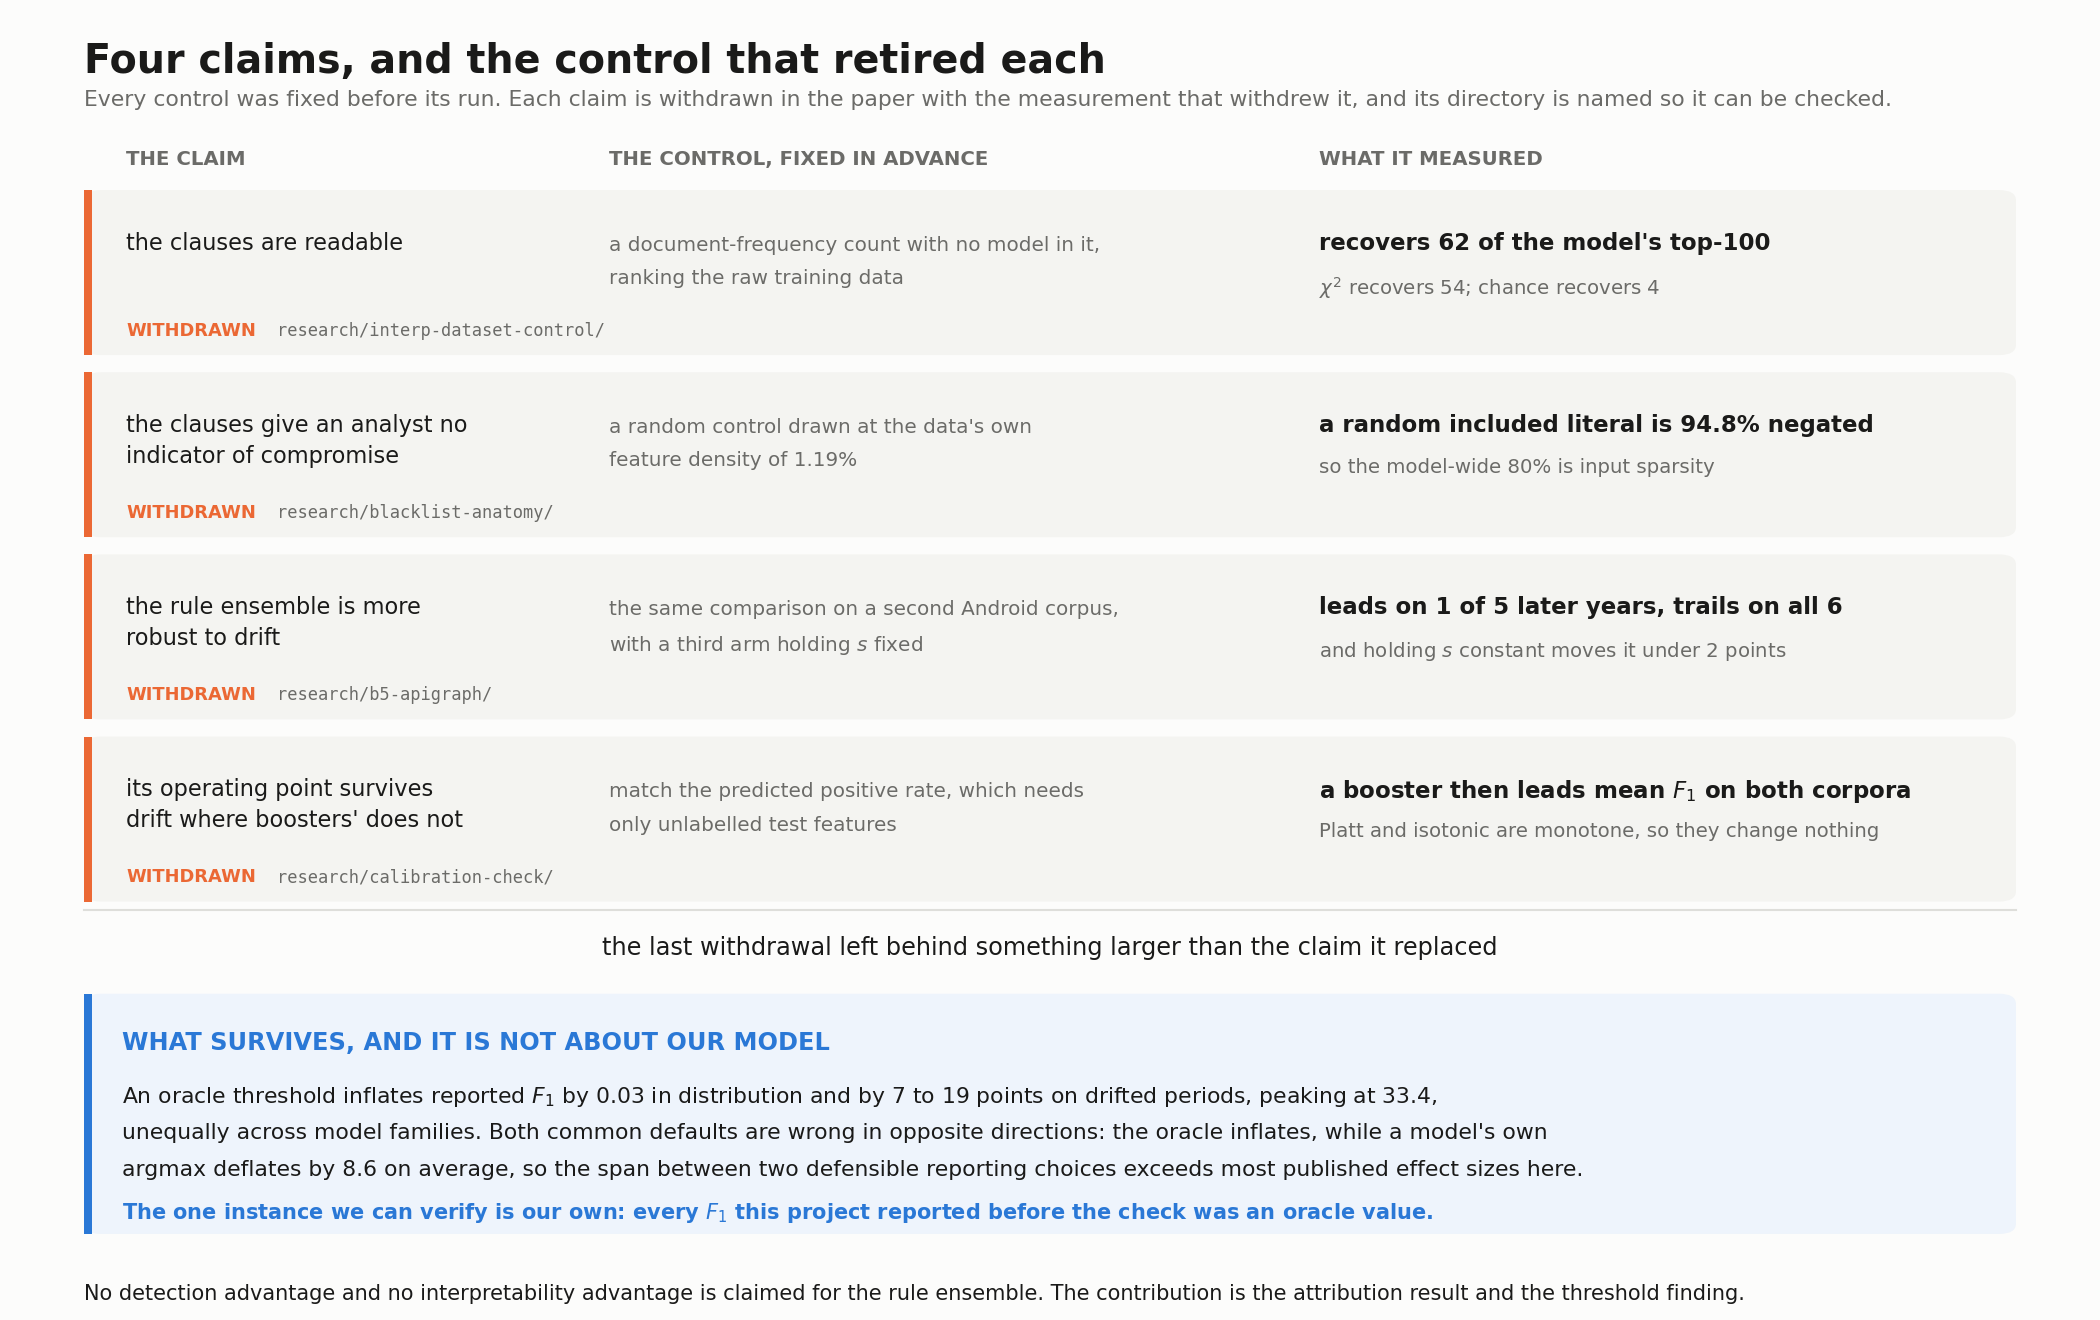
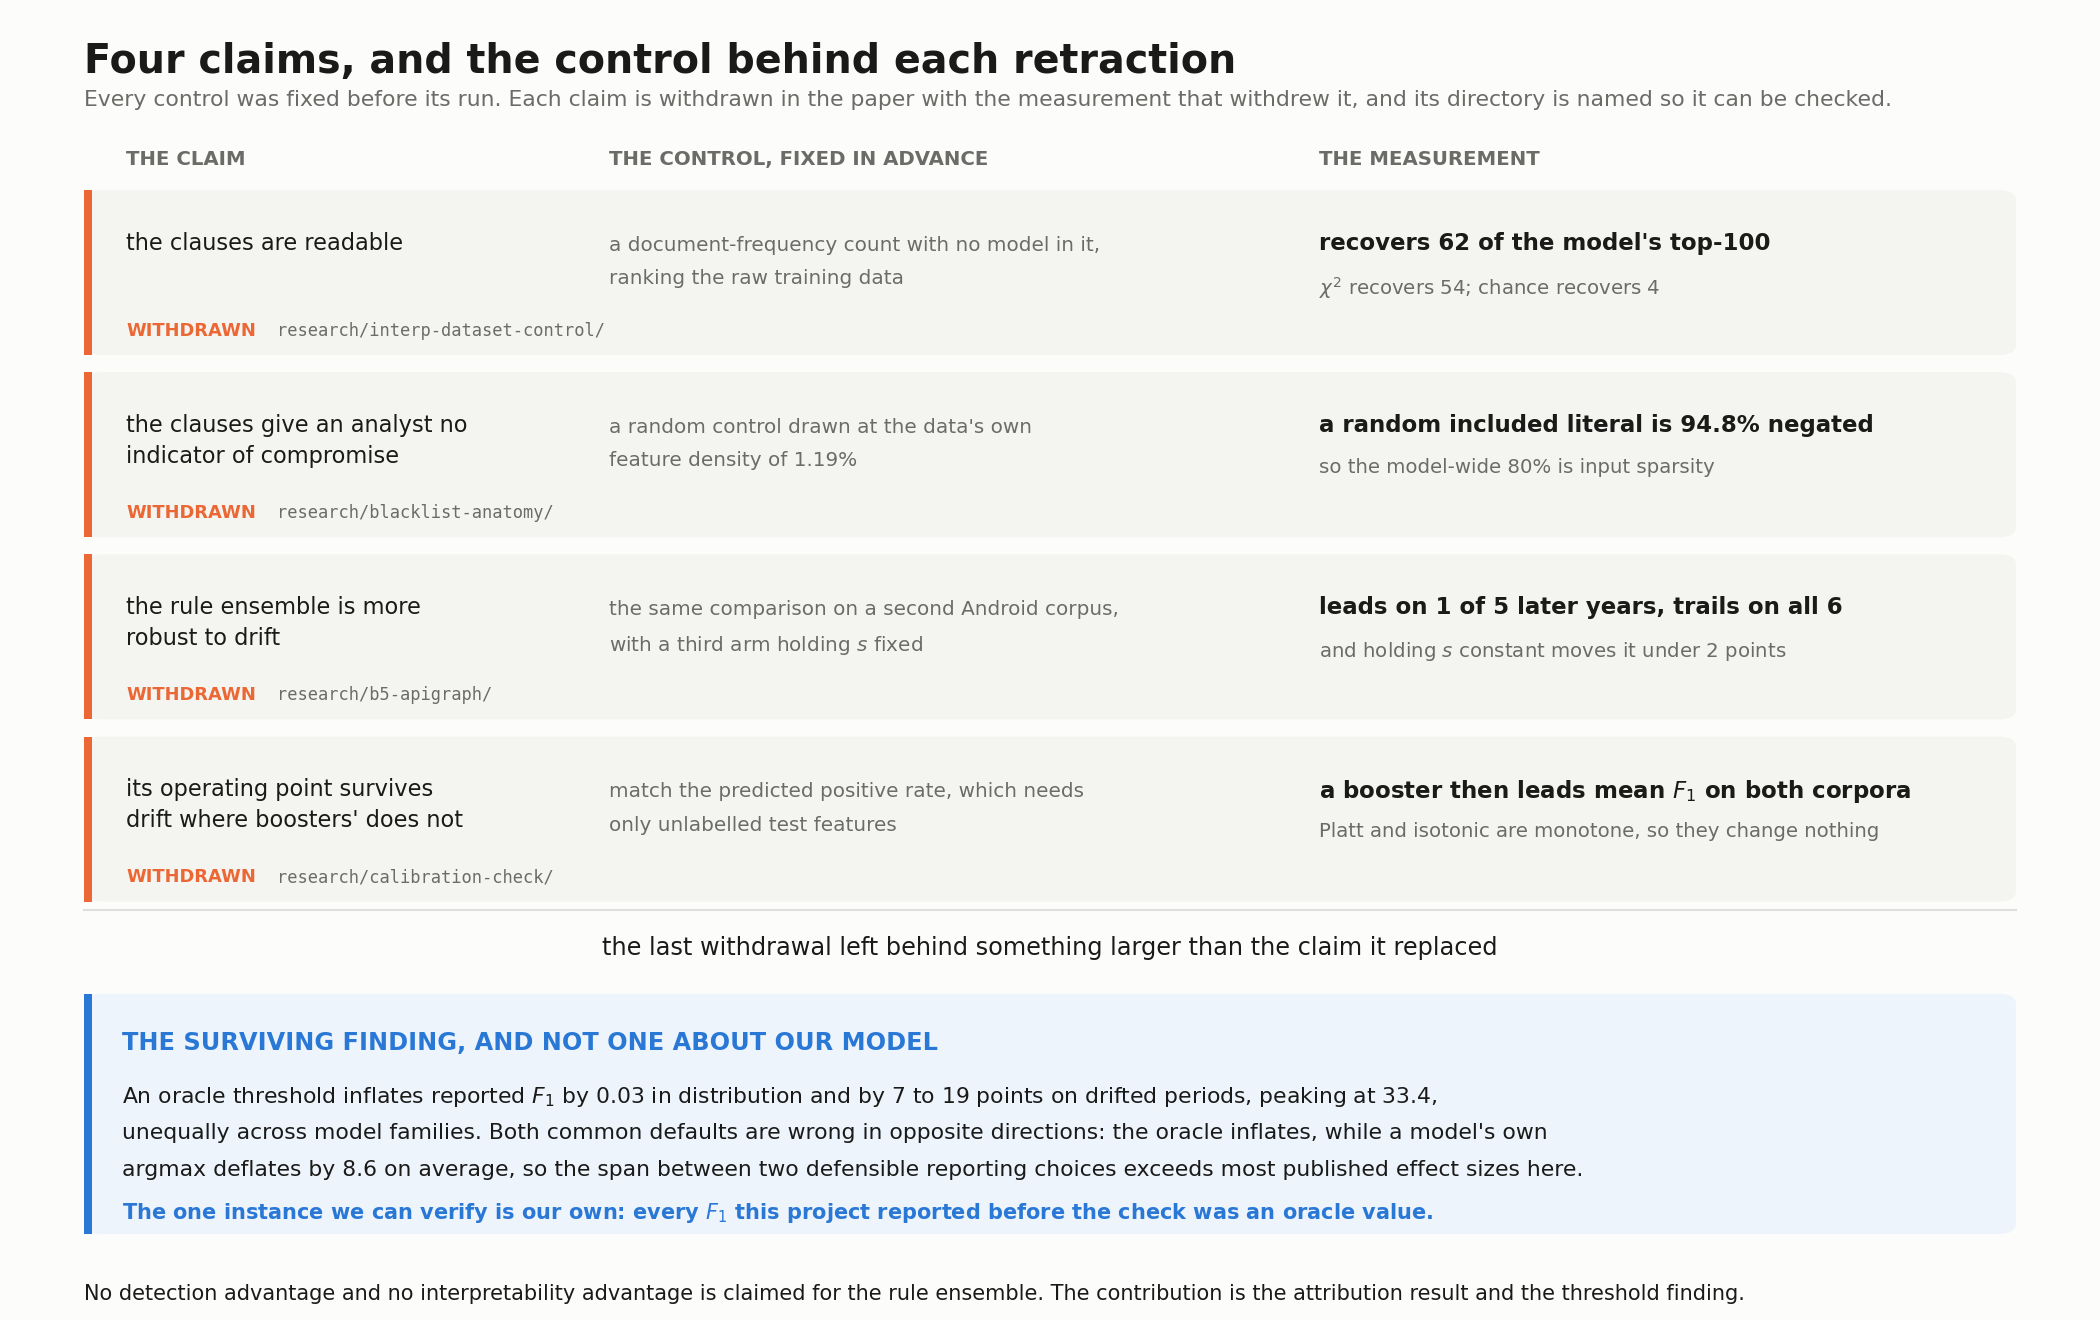
Figure headings become noun phrases, and the audit now reads them
The prose audit keyed on markdown '#' lines, so a figure's headings were invisible to it and the
last full-sentence titles in the project were sitting in the plotting scripts: a title reading
"Exact attribution is cheaper than approximating it", a band head "WHAT THE PUBLISHED 0.958 IS MADE
OF", and two wh-clause subtitles under SAMPLED and EXACT.

check_prose.py now parses each figure script and tests its heading slots. A slot is found
mechanically, since a figure carries no '#': an all-caps label of two or more words, a set_title
argument, a string in semibold or at display size, or a string sharing a tuple with an all-caps
label, which is how a subtitle sits under its head. A string ending in a full stop is panel prose
and is exempt - that is the signal that separates the two, where font size does not, because these
figures set body text in semibold for emphasis.

Changed region(s): [[0.0619, 0.7765, 0.4643, 0.8076], [0.3405, 0.0311, 0.5881, 0.0621], [0.619, 0.0932, 0.7429, 0.1242]]

diff --git a/tools/check_prose.py b/tools/check_prose.py
@@ -1,9 +1,10 @@
 """Audit the repository's prose against the house style, and print numbers instead of impressions.
 
-The paper had its own audit from the start; the README, the experiment write-ups and the script headers
-did not, which is why the "X rather than Y" construction stood at 200 instances across tracked files
-while the manuscript sat at a curated ten. Every check here exists because the rule was broken without
-that being visible on reading.
+The paper had its own audit from the start; the README, the experiment write-ups, the script headers and
+the strings inside the plotting scripts did not, which is why the "X rather than Y" construction stood at
+200 instances across tracked files while the manuscript sat at a curated ten, and why the last
+full-sentence titles in the project survived inside figures. Every check here exists because the rule was
+broken without that being visible on reading.
 
     python tools/check_prose.py              audit
     python tools/check_prose.py -v           list every instance
@@ -16,6 +17,7 @@ a determiner follows, but the pass still declines anything it cannot classify an
 
 Exit status is 0 if nothing is flagged and 1 otherwise.
 """
+import ast
 import re
 import subprocess
 import sys
@@ -157,6 +159,59 @@ for rel in files:
 print("  [%s] American spellings %d" % ((GRN + " ok " + OFF) if not a else (YLW + "warn" + OFF), a))
 print("  [%s] hedging and marketing %d" % ((GRN + " ok " + OFF) if not h else (RED + "FLAG" + OFF), h))
 
-bad = bool(over or bad_heads or h)
+print("\nFIGURE HEADINGS  (plain noun phrases)")
+# A heading slot has to be found mechanically here, because a figure carries no '#' to key on: an
+# all-caps label of two or more words, a set_title or suptitle argument, a string set in semibold or at
+# display size, or a string sharing a tuple with an all-caps label, which is how a subtitle sits under
+# its head. A string ending in a full stop is prose inside the panel and is exempt. That last signal is
+# the one that separates the two reliably; font size alone does not, since a figure sets body text in
+# semibold for emphasis.
+CAPS = re.compile(r"^[A-Z0-9 ,.'$&()%+–—-]+$")
+VERBISH = re.compile(r"\b(?:is|are|was|were|does|do|did|has|have|had|will|can|cannot|must|should"
+                     r"|uses|gives|gave|takes|took|reaches|lands|retired|survives|equals|moves"
+                     r"|needs|holds|leads|trails|recovers|separates|contributes|sits)\b", re.I)
+
+
+def heading_slots(src):
+    lines = src.split("\n")
+    found = {}
+
+    def add(node):
+        t = node.value
+        if t.rstrip().endswith((".", ",")) or len(t.split()) < 2:
+            return
+        if t.startswith(("$", "→")) or "\\" in t:   # maths, an arrow bullet, a TeX fragment
+            return
+        found.setdefault((node.lineno, t), True)
+
+    for node in ast.walk(ast.parse(src)):
+        if isinstance(node, ast.Tuple):
+            es = [e for e in node.elts if isinstance(e, ast.Constant) and isinstance(e.value, str)]
+            if any(CAPS.fullmatch(e.value) and e.value.strip() for e in es):
+                for e in es:
+                    add(e)
+        if isinstance(node, ast.Constant) and isinstance(node.value, str):
+            ln = lines[node.lineno - 1]
+            stmt = "\n".join(lines[max(0, node.lineno - 3):node.lineno + 2])
+            m = re.search(r"fontsize=([\d.]+)", stmt)
+            if ((CAPS.fullmatch(node.value) and len(node.value.split()) >= 2)
+                    or ".set_title(" in ln or ".suptitle(" in ln
+                    or 'weight="semibold"' in stmt or (m and float(m.group(1)) >= 12)):
+                add(node)
+    return sorted(found)
+
+
+fig_heads = []
+for rel in [f for f in files if "figures/" in f and f.endswith(".py")]:
+    for ln, t in heading_slots((ROOT / rel).read_text(encoding="utf-8")):
+        if (VERBISH.search(t) or re.match(r"\s*(what|why|how|whether)\b", t, re.I)
+                or re.search(r",\s*not\s", t, re.I)):
+            fig_heads.append((rel, ln, t))
+print("  [%s] %d figure headings that are not noun phrases"
+      % ((GRN + " ok " + OFF) if not fig_heads else (RED + "FLAG" + OFF), len(fig_heads)))
+for rel, ln, t in fig_heads[:14]:
+    print("        %-30s %4d  %s" % (rel.split("/")[-1], ln, t.replace("\n", " / ")[:60]))
+
+bad = bool(over or bad_heads or h or fig_heads)
 print("\n" + ((GRN + "all checks pass" + OFF) if not bad else (RED + "flagged" + OFF)))
 sys.exit(1 if bad else 0)

diff --git a/docs/figures/project-overview.py b/docs/figures/project-overview.py
@@ -55,7 +55,7 @@ def main():
     ax.set_xlim(0, 1)
     ax.set_ylim(0, 1)
 
-    ax.text(L, 0.967, "Exact attribution is cheaper than approximating it",
+    ax.text(L, 0.967, "Exact attribution at less cost than its approximation",
             fontsize=19, color=INK, va="top", weight="semibold")
     ax.text(L, 0.930,
             "LAMDA, 4,561 Drebin features, 2013–2022, flat Fuzzy-Pattern Tsetlin machine at 20 "
@@ -83,15 +83,15 @@ def main():
     panel(ax, R, bT - bH, W, bH, BLUE)
 
     for x, accent, head, sub, eq, body, foot in (
-        (L, ORANGE, "SAMPLED", "what the literature uses",
+        (L, ORANGE, "SAMPLED", "the instrument in general use",
          "100 coalitions against 4,561 features",
          ["Kernel SHAP fits a weighted linear surrogate to the target's outputs on sampled",
           "coalitions. The library's own default budget is $2M+2048 = 11{,}170$; the published",
           "series uses 100, which is a factor of forty-five fewer coalitions than features.",
           "→  the variance that would tell a real turnover from a failure to find it twice",
           "     is not reported at all"],
-         "lands 0.851 from the truth and 0.889 from ITSELF"),
-        (R, BLUE, "EXACT", "what the closed form gives",
+         "0.851 from the truth, and 0.889 from ITSELF"),
+        (R, BLUE, "EXACT", "the instrument available here",
          "no sampling, and no feature-count term",
          ["All but $g+d$ features have value exactly zero, the rest collapse to two shared",
           "values, and the cost per rule is set by rule size. The class covers Fuzzy-Pattern",
@@ -126,7 +126,7 @@ def main():
     # ---- band C: the decomposition -------------------------------------- #
     cT, cH = hY - pts(40), 0.332
     panel(ax, L, cT - cH, FW, cH, ORANGE, fill="#faeee8")
-    ax.text(L + 0.018, cT - pts(18), "WHAT THE PUBLISHED 0.958 IS MADE OF", fontsize=11.5,
+    ax.text(L + 0.018, cT - pts(18), "THE COMPOSITION OF THE PUBLISHED 0.958", fontsize=11.5,
             color=ORANGE, va="top", weight="semibold")
 
     labels = ["the estimator's own\nnoise floor",

diff --git a/docs/figures/claims-and-controls.py b/docs/figures/claims-and-controls.py
@@ -76,7 +76,7 @@ def main():
     ax.set_xlim(0, 1)
     ax.set_ylim(0, 1)
 
-    ax.text(L, 0.968, "Four claims, and the control that retired each",
+    ax.text(L, 0.968, "Four claims, and the control behind each retraction",
             fontsize=19, color=INK, va="top", weight="semibold")
     ax.text(L, 0.932,
             "Every control was fixed before its run. Each claim is withdrawn in the paper with the "
@@ -89,7 +89,7 @@ def main():
     ax.text(CX1, hT, "THE CLAIM", fontsize=9.5, color=MUTED, va="top", weight="semibold")
     ax.text(CX2, hT, "THE CONTROL, FIXED IN ADVANCE", fontsize=9.5, color=MUTED, va="top",
             weight="semibold")
-    ax.text(CX3, hT, "WHAT IT MEASURED", fontsize=9.5, color=MUTED, va="top", weight="semibold")
+    ax.text(CX3, hT, "THE MEASUREMENT", fontsize=9.5, color=MUTED, va="top", weight="semibold")
 
     rT, rH, rGap = 0.856, 0.125, 0.013
     for i, (claim, control, verdict, detail, where) in enumerate(ROWS):
@@ -117,7 +117,7 @@ def main():
     # ---- band: what survives -------------------------------------------- #
     sT, sH = hY - pts(26), 0.182
     panel(ax, L, sT - sH, FW, sH, BLUE, fill="#eef4fc")
-    ax.text(L + 0.018, sT - pts(18), "WHAT SURVIVES, AND IT IS NOT ABOUT OUR MODEL",
+    ax.text(L + 0.018, sT - pts(18), "THE SURVIVING FINDING, AND NOT ONE ABOUT OUR MODEL",
             fontsize=11.5, color=BLUE, va="top", weight="semibold")
     for k, line in enumerate((
             "An oracle threshold inflates reported $F_1$ by 0.03 in distribution and by 7 to 19 points "
